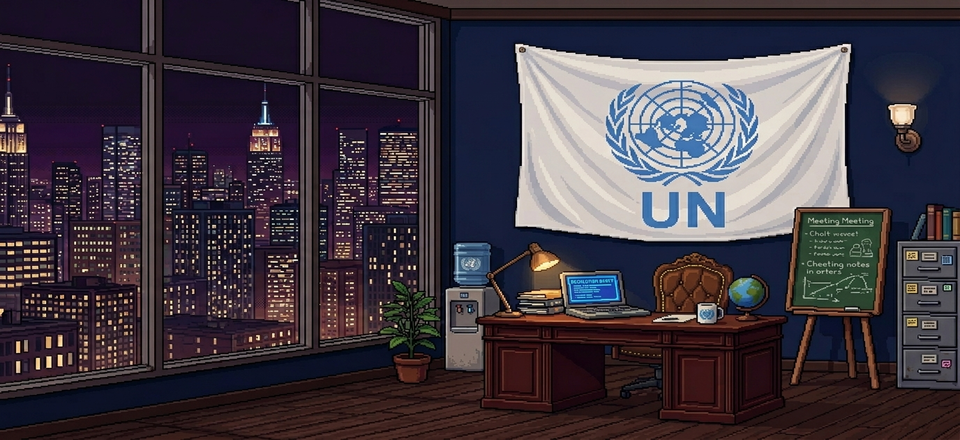
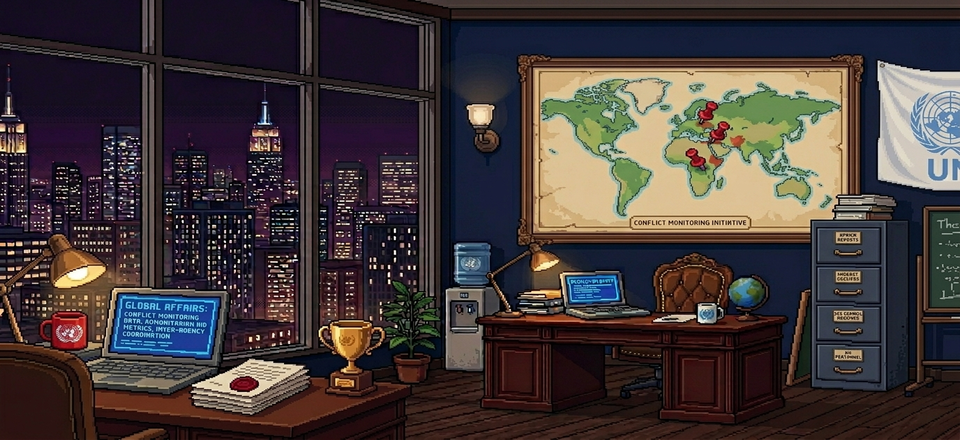
VVV-1 UN 본부 사무실 새 사진 적용 + spot 좌표 그림 위치에 맞춤
사용자 제공 1376×768 → 960×440 LANCZOS 리사이즈.

새 사진의 사물 위치에 맞춰 cases.js intro.office spots 갱신:
- 한센 책상 (좌측 1/3, 램프·노트북 GLOBAL AFFAIRS·트로피·빨간 머그): x=20~340, y=190~430
- 세계지도 (중앙 위쪽, CONFLICT MONITORING INITIATIVE 큰 보드): x=380~700, y=30~240
- 서류함 (우측 4단, UN 깃발 옆): x=700~920, y=200~430

지도 단서 라벨도 '벽에 걸린 세계지도' → '분쟁 모니터링 지도'로 변경.

sw.js v102 → v103.

diff --git a/src/cases.js b/src/cases.js
@@ -28,30 +28,30 @@ const CASES = {
         bg: 'bg_un_hq',         // InvestigationScene이 drawHQOfficeBg()로 폴백 렌더링
         spots: [
           {
-            // 한센 책상 (좌측, 사무실 그림과 일치)
-            x: 80, y: 220, w: 220, h: 120,
+            // 좌측 책상 (램프·노트북 GLOBAL AFFAIRS·트로피·빨간 머그)
+            x: 20, y: 190, w: 320, h: 240,
             name: '📋 책상 위 임무 명세서',
-            text: '디렉터 한센의 책상 위. 빨간 도장이 찍힌 봉인 서류 세 통.',
+            text: '디렉터 한센의 책상 위. "GLOBAL AFFAIRS" 노트북, 작은 황금 트로피, 빨간 머그, 종이 더미.',
             evidence: {
               id: 'mission_brief', name: '세 가지 임무', area: 'cognitive',
               desc: '아랄해(환경)·우크라이나(전쟁)·팔레스타인(평화) — 자네의 첫 임무 후보 세 가지.'
             }
           },
           {
-            // 세계지도 (가운데 보드)
-            x: 340, y: 220, w: 240, h: 130,
-            name: '🗺 벽에 걸린 세계지도',
-            text: '카라칼팍·키이우·예루살렘 세 곳에 빨간 핀이 꽂혀 있다.',
+            // 중앙 세계지도 (벽에 걸린 "CONFLICT MONITORING INITIATIVE" 지도)
+            x: 380, y: 30, w: 320, h: 210,
+            name: '🗺 분쟁 모니터링 지도',
+            text: '벽에 걸린 큰 세계지도. "CONFLICT MONITORING INITIATIVE" 빨간 핀이 중앙아시아·동유럽·중동에 꽂혀 있다.',
             evidence: {
               id: 'world_map', name: '세 분쟁 지점', area: 'cognitive',
               desc: '한 지도 위에 세 분쟁. 서로 다른 대륙·종교·역사지만 모두 "사람의 일"이다.'
             }
           },
           {
-            // 서류함 (우측 4단 캐비넷)
-            x: 620, y: 220, w: 220, h: 200,
+            // 우측 서류함 (4단 캐비넷, UN 깃발 옆)
+            x: 700, y: 200, w: 220, h: 230,
             name: '🗄 과거 사건 파일함',
-            text: 'UN의 30년 평화 활동 기록이 색인되어 있다.',
+            text: '4단 캐비넷에 라벨이 붙어 있다. UN의 30년 평화 활동 기록.',
             evidence: {
               id: 'past_records', name: '30년의 평화 활동', area: 'behavioral',
               desc: 'UN은 30년 동안 수많은 분쟁을 다뤘다. 작은 협력이 큰 변화를 만든다는 증거.'

diff --git a/sw.js b/sw.js
@@ -1,4 +1,4 @@
-const CACHE = 'vanished-sea-v102';
+const CACHE = 'vanished-sea-v103';
 const PRECACHE = [
   './',
   './index.html',
